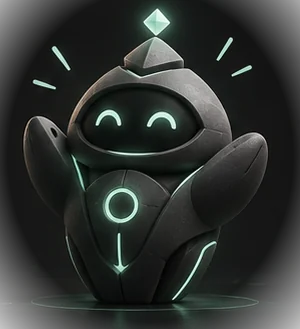
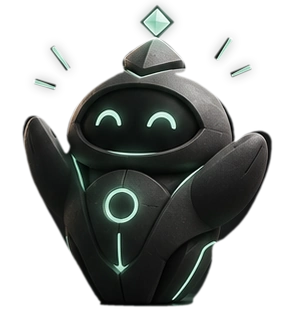
fix(frontend): improve Guardian Totem assets

diff --git a/src/pages/public.css b/src/pages/public.css
@@ -57,7 +57,7 @@
 .kindra-landing .landing-hero h1 { position: absolute; z-index: 1; top: 30%; left: -.025em; width: max-content; max-width: 100%; color: var(--color-kindra-950); font-size: clamp(88px, 9vw, 130px); line-height: .9; letter-spacing: -.09em; white-space: nowrap; }
 .kindra-landing .landing-hero h1 span { color: var(--color-teal-400); }
 .kindra-landing .landing-hero-guardian { position: absolute; z-index: 2; top: 0; right: 7%; width: clamp(370px, 40vw, 525px); max-width: 54%; pointer-events: none; }
-.kindra-landing .landing-hero-guardian img { display: block; width: 100%; height: auto; -webkit-mask-image: linear-gradient(to bottom, #000 0%, #000 82%, transparent 100%); mask-image: linear-gradient(to bottom, #000 0%, #000 82%, transparent 100%); animation: landing-guardian-breathe 7s ease-in-out infinite; }
+.kindra-landing .landing-hero-guardian img { display: block; width: 100%; height: auto; animation: landing-guardian-breathe 7s ease-in-out infinite; }
 .kindra-landing .landing-hero-index { position: absolute; right: 0; bottom: 25px; color: var(--color-kindra-400); font-size: 11px; letter-spacing: .16em; }
 .kindra-landing .landing-hero-bottom { position: relative; z-index: 3; display: grid; grid-template-columns: minmax(0, 1fr) auto; align-items: end; gap: 30px; margin-top: -32px; }
 .kindra-landing .landing-hero-statement { font: 700 clamp(22px, 2.4vw, 32px)/1.25 var(--font-display); letter-spacing: -.04em; }
@@ -75,7 +75,7 @@
 .kindra-landing .landing-discipline h2 em { color: var(--color-kindra-700); font-style: normal; }
 .kindra-landing .landing-discipline h2 em span { color: var(--color-teal-400); }
 .kindra-landing .landing-discipline-copy > span { display: block; max-width: 340px; margin-top: 34px; color: var(--color-kindra-500); font-size: 15px; line-height: 1.8; }
-.kindra-landing .landing-discipline-guardian { position: absolute; right: 2%; bottom: 0; width: min(29%, 330px); height: auto; -webkit-mask-image: linear-gradient(to bottom, #000 0%, #000 78%, transparent 100%); mask-image: linear-gradient(to bottom, #000 0%, #000 78%, transparent 100%); }
+.kindra-landing .landing-discipline-guardian { position: absolute; right: 2%; bottom: 0; width: min(29%, 330px); height: auto; }
 
 .kindra-landing .landing-system { padding-block: 115px 125px; scroll-margin-top: 24px; }
 .kindra-landing .landing-system-intro { display: flex; align-items: end; justify-content: space-between; gap: 40px; margin-top: 75px; margin-bottom: 72px; }
@@ -101,13 +101,13 @@
 .kindra-landing .landing-progress h2 { font-size: clamp(62px, 7.4vw, 110px); line-height: .98; letter-spacing: -.075em; }
 .kindra-landing .landing-progress h2 span { color: var(--color-teal-300); }
 .kindra-landing .landing-progress-layout > div > p { max-width: 470px; margin-top: 30px; color: var(--color-kindra-500); font-size: 15px; line-height: 1.8; }
-.kindra-landing .landing-progress-layout > img { width: 100%; max-width: 330px; height: auto; justify-self: center; -webkit-mask-image: linear-gradient(to bottom, #000 0%, #000 80%, transparent 100%); mask-image: linear-gradient(to bottom, #000 0%, #000 80%, transparent 100%); }
+.kindra-landing .landing-progress-layout > img { width: 100%; max-width: 330px; height: auto; justify-self: center; }
 .kindra-landing .landing-progress-notes { display: flex; flex-wrap: wrap; gap: 12px 26px; margin-top: 42px; padding-top: 18px; border-top: 1px solid var(--color-kindra-300); color: var(--color-kindra-700); font-size: 12px; }
 .kindra-landing .landing-progress-notes span::before { content: ''; display: inline-block; width: 4px; height: 4px; margin-right: 9px; border-radius: 50%; background: var(--color-teal-400); vertical-align: middle; }
 
 .kindra-landing .landing-guardian-moment { background: var(--color-kindra-100); border-block: 1px solid var(--color-kindra-200); }
 .kindra-landing .landing-guardian-inner { display: grid; grid-template-columns: minmax(210px, .4fr) minmax(0, 1fr); align-items: center; gap: min(10vw, 150px); min-height: 600px; padding-block: 65px; }
-.kindra-landing .landing-guardian-inner > img { width: min(100%, 310px); height: auto; -webkit-mask-image: linear-gradient(to bottom, #000 0%, #000 83%, transparent 100%); mask-image: linear-gradient(to bottom, #000 0%, #000 83%, transparent 100%); }
+.kindra-landing .landing-guardian-inner > img { width: min(100%, 310px); height: auto; }
 .kindra-landing .landing-moment-overline { color: var(--color-teal-300); font-size: 11px; font-weight: 600; letter-spacing: .16em; }
 .kindra-landing .landing-guardian-inner h2 { margin-top: 25px; font-size: clamp(42px, 5.1vw, 76px); line-height: 1.08; letter-spacing: -.07em; }
 .kindra-landing .landing-guardian-inner h2 span { color: var(--color-kindra-500); }
@@ -177,7 +177,7 @@
 }
 @media (max-width: 430px) {
   .kindra-landing .landing-hero-stage { height: clamp(405px, 106vw, 460px); }
-  .kindra-landing .landing-hero-guardian { top: 25px; right: -4px; width: 70%; }
+  .kindra-landing .landing-hero-guardian { top: 48px; right: -4px; width: 70%; }
   .kindra-landing .landing-hero h1 { font-size: 16.6vw; }
   .kindra-landing .landing-hero-actions .kindra-button { flex: 1; }
   .kindra-landing .landing-discipline-inner { min-height: 660px; }
